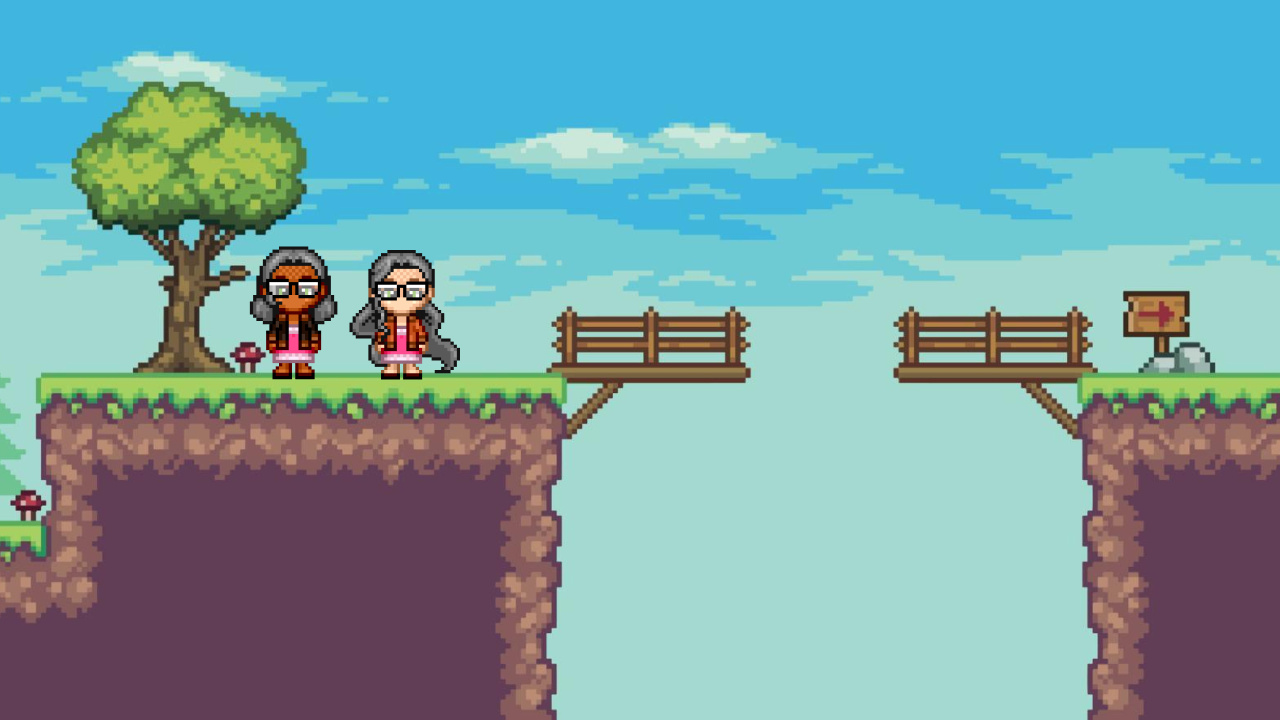
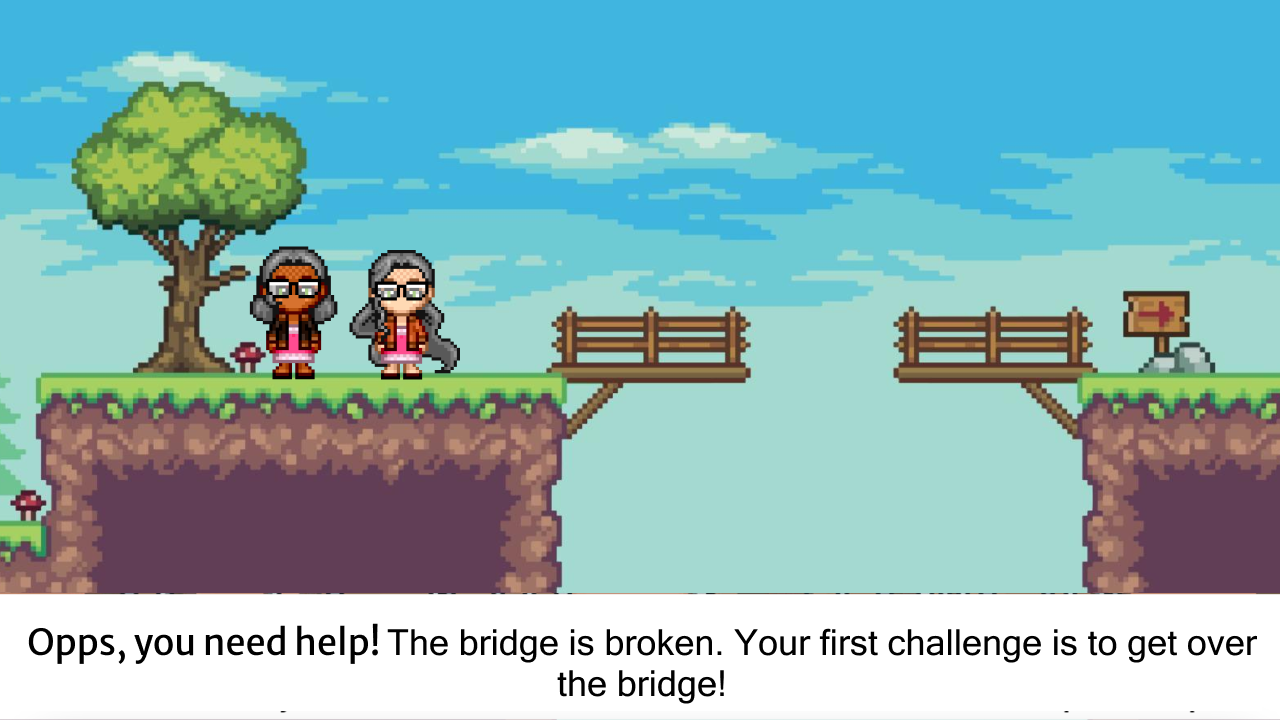
Add the most annoying functionality ever -motion

Changed region(s): [[0.0, 0.825, 1.0, 1.0]]

diff --git a/main.py b/main.py
@@ -1,7 +1,6 @@
 import pygame
 import sys
 
-
 # Define the Button class
 class Button:
     def __init__(self, x, y, image, scale):
@@ -102,6 +101,26 @@ def draw_main_screen(screen):
     end_button.draw(screen)
     pygame.display.flip()
 
+
+def move_avatar(screen, avatar, start_pos, end_pos, task_1):
+    clock = pygame.time.Clock()
+    x, y = start_pos
+    target_x, target_y = end_pos
+    speed = 5  # Adjust the speed as needed
+    avatar_x = 100
+
+
+
+
+    while x < 600:
+        clock.tick(30)  # Limit the frame rate to 30 FPS
+
+        x += speed
+        # Define task_1 outside the startGame function
+        screen.blit(task_1, (0, 0))  # Draw the task background
+        screen.blit(avatar, (x, y))  # Draw the avatar at its new position
+        pygame.display.flip()
+
 def startGame():
     print("hello")
 
@@ -113,8 +132,11 @@ def startGame():
     main_avatar = pygame.image.load("avatar.png").convert_alpha()
     main_avatar = pygame.transform.scale(main_avatar, (100, 400))
     #character 2 (Tun Youyou - Chinese pharmacist who discovered arteminsen which is used to treat malaria)
-        #second_avatar = pygame.image.load("").convert_alpha()
-    #second_avatar = pygame.transform.scale(second_avatar, (100,400))
+    
+    task_1 = pygame.image.load("task1.png").convert_alpha()
+    task_1 = pygame.transform.scale(task_1, (1280, 720))
+    main_avatar_smaller = pygame.transform.scale(main_avatar, (100, 200))
+
     #character 3 (Sally Ride - American women first women to travel to space)
     #third_avatar = pygame.image.load("").convert_alpha()
     #third_avatar = pygame.transform.scale(third_avatar, (100,400))
@@ -130,13 +152,16 @@ def startGame():
     messages = [
         "Welcome to HerStory! Your mission is to find the treasure chest at the end of the map <enter space>",
         "Here's your map. You have three tasks to complete in order to win.",
-        "Your first task is to get over the bridge. You have three helpers. To learn more press space"
+        "Your first task is to get over the bridge. You have three helpers. To learn more about them press space",
+        "Opps, you need help! The bridge is broken."
     ]
 
     running = True
     avatar_display = False # track if avatar is shown
     map_display = False 
-    task_display = True
+    task_display = False
+    avatar_x = 100
+    avatar_moved = False
     while running:
         for event in pygame.event.get():
             if event.type == pygame.QUIT:
@@ -150,6 +175,7 @@ def startGame():
                     map_display = True
                 if message_index ==2:
                     task_display = True
+
 
         game_screen.blit(background_img, (0, 0))
 
@@ -174,6 +200,15 @@ def startGame():
         if avatar_display and map_display:
             game_screen.blit(main_avatar, (100, 200))
             game_screen.blit(map, (400, 0))
+
+        
+        if task_display: 
+            game_screen.blit(task_1, (0,0))
+            #TODO:add character to slide into the task_1 frame
+            move_avatar(game_screen, main_avatar_smaller, (400, 175), (0, 0), task_1)  # Slide avatar to new position  
+
+
+    
 
         pygame.display.flip()
 
